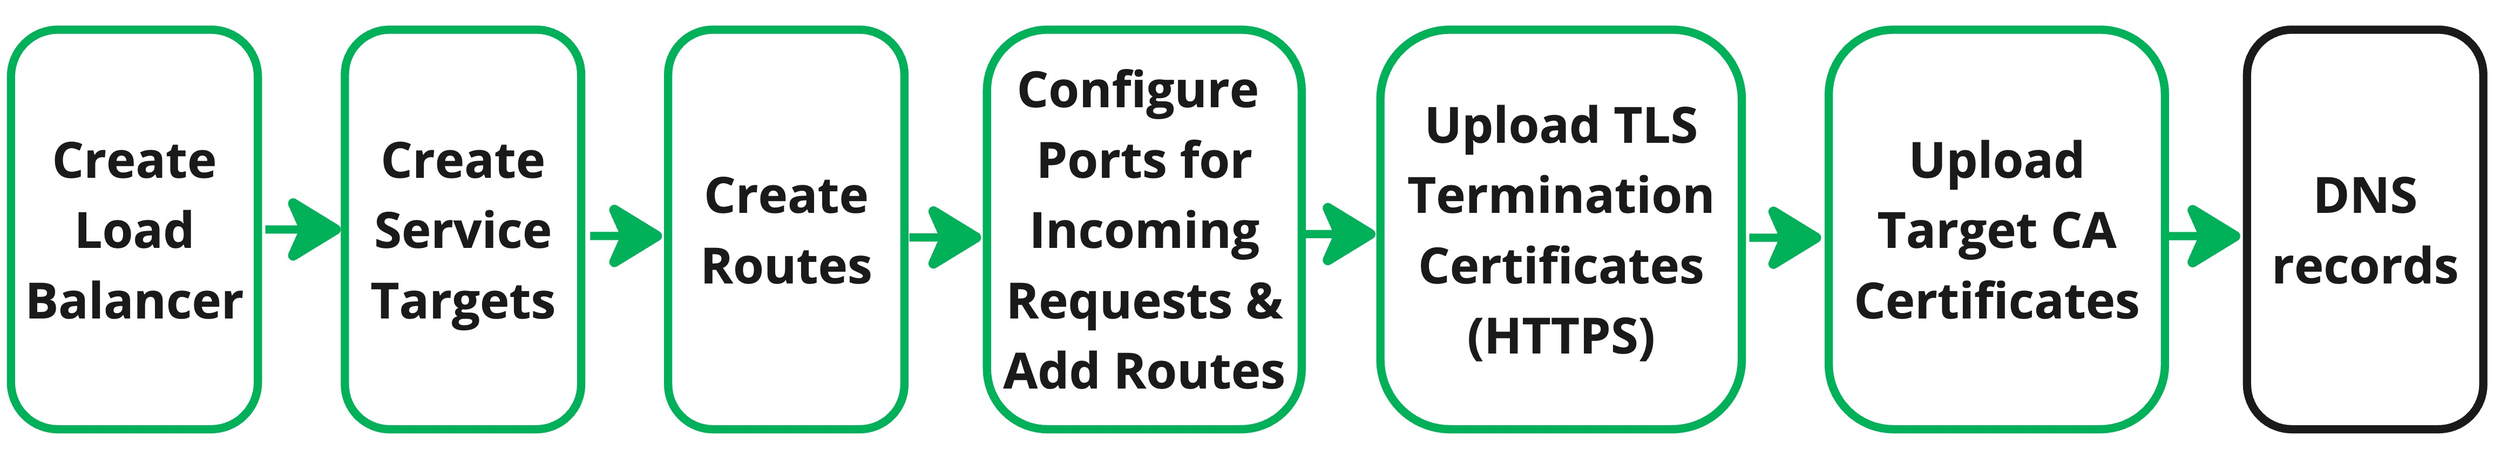
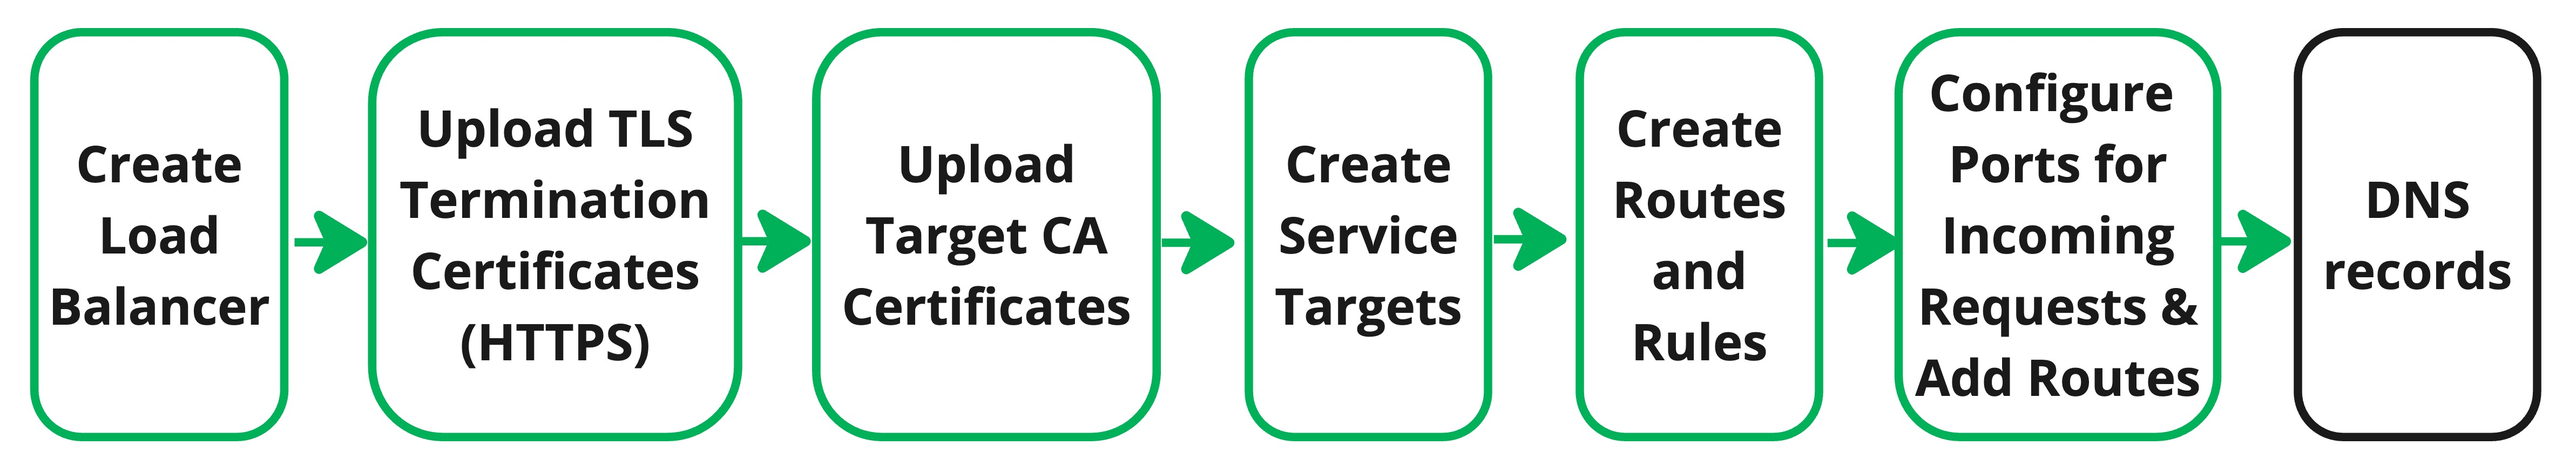
Get Started updates

Changed region(s): [[0.0, 0.031, 0.9991, 0.9928]]

diff --git a/docs/products/networking/cloud-load-balancer/get-started/index.md b/docs/products/networking/cloud-load-balancer/get-started/index.md
@@ -21,25 +21,17 @@ Nearly every production application can benefit from a load balancing solution l
 
 To start using and benefiting from load balancing, your application should be available on at least two service targets. Each service target should be able to fully serve the needs of your users, including being able to respond to web requests, access all necessary files, and query any databases.
 
-To sign up for an account and to start deploying your service targets from Compute Instances, see [Compute Instances - Get Started](/docs/products/compute/compute-instances/get-started/). If your service targets are not deployed from compute instances, ensure you have the public IP addresses for the service target endpoints.
+To sign up for an account and to start deploying your service targets from Compute Instances, see [Compute Instances - Get Started](/docs/products/compute/compute-instances/get-started/). If your service targets are not deployed from compute instances, you will need the public IP addresses for your service targets.
 
 To redirect web connections over port 443/HTTPS, generate TLS certificates for your domains.
 
 ## Create the Akamai Cloud Load Balancer
 
-Once your application has been deployed on at least two backends, you are ready to create the Akamai Cloud Load Balancer which includes configuring and uploading the following components.
+Once your application has been deployed on at least two service targets, you are ready to create the Akamai Cloud Load Balancer which includes configuring and uploading the following components.
 
 ![This diagram shows the main components that are configured when creating a Cloud Load Balancer.](aclb-2.jpg)
 
-**Create Routes:** Create Routes to define how the load balancer directs incoming requests to service targets. After a route is created, you can add rules to set match conditions and configure session stickiness.
-
 **Configure Entry Point and Add Routes:** Configure the entry point protocol (TCP, HTTPS, or HTTP) and the port load balancer uses to listen on. Add routes for forwarding requests to service target endpoints.
-
-**Upload TLS Termination Certificates:** When the entry point protocol is HTTPS, upload certificates and private keys.
-
-**Upload CA Certificates:** Upload the service target CA certificates.
-
-**DNS Record:** Add the Cloud Load Balancers to the DNS records for the associated service targets.
 
 ### Label the Load Balancer and Select Regions
 1. Log in to the [Cloud Manager](https://cloud.linode.com), select Cloud Load Balancers from the left menu, and click the **Create Load Balancer** button. This displays the *Cloud Load Balancers Create* form.
@@ -62,10 +54,36 @@ Once your application has been deployed on at least two backends, you are ready 
 
     The newly created load balancer is added.
 
+### Upload Service Target CA and TLS Termination Certificates
+
+TLS termination certificates are required for load balancer ports using the HTTPS protocol. TLS termination certificates create an encrypted link between your clients and Cloud Load Balancer and terminate incoming requests on the load balancer. Once the load balancing policy is applied, requests are forwarded to your service targets endpoints over encrypted TLS connections. Responses from your service targets to your clients are also encrypted.
+
+Service target CA certificates are applied to your endpoints. Cloud Load Balancer uses these certificates to verify responses from your service targets to your clients.
+
+1. Click on the [Cloud Load Balancer](https://cloud.linode.com/loadbalancers/) that you are setting up. The Cloud Load Balancer **Summary** tab is displayed.
+
+1. Select the **Certificates** tab. Then select the **TLS Certificates** or **Service Target Certificates** tab.
+
+1. Refer to the following table for information on uploading certificates.
+
+| **Field**   | **Description** |
+| :----------------| ----------------|
+| **TLS Certificates**                           ||
+|Label          |  Certificate name.|
+|TLS Certificate| Paste the PEM-formatted contents of your TLS certificate. If you have linked multiple segments of a chained certificate, be sure to copy all of its contents into the text field, appearing one after another. The certificate must be signed using the RSA algorithm, which is the default in most cases.|
+Private Key|Paste the PEM-formatted contents of your private key. Your private key must not have a passphrase.|
+|**Service Target Certificates**||
+|Label          |  Certificate name.|
+|Server Certificate| Paste the PEM-formatted contents of your TLS certificate. If you have linked multiple segments of a chained certificate, be sure to copy all of its contents into the text field, appearing one after another. The certificate must be signed using the RSA algorithm, which is the default in most cases.||
+
+4. After entering each certificate, click **Upload Certificate** . 
+
+    An ID is assigned to each certificate you add.
+
 ### Create Service Targets
 A service target is a cluster of endpoints that the load balancer directs incoming requests to. You can add different service targets and endpoints for different types of requests.
 
-1. Click the **Service Targets** tab.
+1. Select the **Service Targets** tab.
 
 1. Click the **Create Service Target** button.
 
@@ -74,123 +92,133 @@ A service target is a cluster of endpoints that the load balancer directs incomi
 | **Field**   | **Description** |
 | :----------------| ----------------|
 | **Add A Service Target**                            ||
-|- Service Target Label          | Service Target name. |
-|- Service Target Protocol | TCP, HTTP or HTTPs. The protocol this service target is configured to serve.||
-|**Algorithm**                     | Select a load balancing policy that decides how new connections are allocated across your service targets. <li> **Round Robin:** Service targets are selected one after another in a repeating order. If unequal weights are assigned, service targets with a greater weight appear more frequently in the round robin rotation. </li><li> **Least Request:** The load balancer selects the service target with the fewest number of active requests. If unequal weights are assigned, weighted round robin rotation is applied.</li><li> **Ring Hash:** Each service target is mapped into a circle (ring) by hashing its address. Each request is then routed clockwise around the ring to the nearest service target.</li><li> **Random:** The load balancer selects a random available service target.</li><li> **Maglev:** The Maglev load balancer implements consistent hashing to upstream hosts. </li>    |
-| **Endpoints** | A service target can not have endpoints that are exact duplicates. The port, IP or compute instance must differ. Capacity and health status are taken into consideration in the endpoint selection process.|
-|- Linode or Public IP Address          | Select the Compute Instance (Linode). For non-Linode endpoints, enter the public IPv4 or IPv6 address. Do not use the localhost (127.0.0.0/8) or any IP address used internally by this load balancer for the endpoint IP address.|
-|- Port| Enter the service target port that the load balancer directs incoming requests to. This is the port that the application is listening on.|
-|- Host Header (optional)   | The host header for HTTP/S requests to the endpoint. The host header is not used to look up the IP address in the DNS.|
-|- Rate Capacity (Requests per second)|The maximum number of requests/second that can be directed to this endpoint. If the actual number of requests/second exceeds the configured capacity value, requests are distributed to the other endpoints. The total requests per second allowed on each Load Balancer is defined in [Pricing](/docs/products/networking/cloud-load-balancer/#pricing). |
-
-#### Service Target CA Certificate
-
-When the HTTPS protocol is selected, you need to install TLS certificates on your Cloud Load Balancer. Cloud Load Balancer uses these certificates to verify responses from your service targets to your clients. You will be directed to upload service target endpoint CA certificates after the load balancer is created.
-1. If you have uploaded CA certificates already, you can select the certificates you want to use.
-
-#### Health Checks
-Health checks are configured at the service target level and apply to all of the service targets endpoints. Health checks query the service targets by performing TCP connections or by making HTTP requests. For TCP, a service target is considered healthy and able to accept incoming requests when there is a successful TCP handshake with the service target. When HTTP/S is used to validate health status, the service target is considered healthy when requests to its path or host return a 2xx or 3xx status code response.
-
-| **Field**   | **Description** |
-| ----------------| ----------------|
-|Use Health Checks| When enabled, health checks query the service targets by performing TCP connections or by making HTTP/S requests. Default is enabled.|
-|Protocol| HTTP/S or TCP.  You can select TCP health checks even when the load balancers entrypoint protocol is HTTP or HTTPS. When set to TCP, path and host are not applicable.|
+|  Service Target Label          | Service Target name. |
+|Service Target Protocol | TCP, HTTP or HTTPs. The protocol this service target is configured to serve.||
+|**Algorithm**                   | Select a load balancing policy that decides how new connections are allocated across your service targets. Cloud Load Balancer also has a built in geo-proximity feature for selecting the optimum endpoint. <li> **Round Robin:** Service targets are selected one after another in a repeating order. If unequal weights are assigned, service targets with a greater weight appear more frequently in the round robin rotation. </li><li> **Least Request:** The load balancer selects the service target with the fewest number of active requests. If unequal weights are assigned, weighted round robin rotation is applied.</li><li> **Ring Hash:** Each service target is mapped into a circle (ring) by hashing its address. Each request is then routed clockwise around the ring to the nearest service target.</li><li> **Random:** The load balancer selects a random available service target.</li><li> **Maglev:** The Maglev load balancer implements consistent hashing to upstream hosts. </li>    |
+| **Endpoints** | The port, IP or compute instance must differ. Capacity and health status are taken into consideration in the endpoint selection process. Endpoints for a service target must be unique.|
+|Linode or Public IP Address          | Select the Compute Instance (Linode). For non-Linode endpoints, enter the public IPv4 or IPv6 address. Do not use the localhost (127.0.0.0/8) or any IP address used internally by this load balancer for the endpoint IP address.|
+|Port| Enter the service target port that the load balancer directs incoming requests to. This is the port that the application is listening on.|
+|Host Header (optional)   | The host header for HTTP/S requests to the endpoint. The host header is not used to look up the IP address in the DNS.|
+|Rate Capacity (Requests per second)|The maximum number of requests/second that can be directed to this endpoint. If the actual number of requests/second exceeds the configured capacity value, requests are distributed to the other endpoints. The total requests per second allowed on each Load Balancer is defined in [Pricing](/docs/products/networking/cloud-load-balancer/#pricing). |
+|**Service Target CA Certificate**|The certificate installed on your endpoints that is used by the load balancer to accept responses from this Service Target.|
+|Certificate (required for HTTPS applications)| Select the CA certificate to use for this service target. See [Service Target CA Certificates](/docs/products/networking/cloud-load-balancer/get-started/#upload-service-target-ca-and-tls-termination-certificates) for information on uploading certificates.|
+|**Health Checks**|Health checks are configured at the service target level and apply to all of the endpoints. For TCP, a service target is considered healthy (Up) and able to accept incoming requests when there is a successful TCP handshake with the service target. When HTTP/S is used to validate health status, the service target is considered healthy when requests to its path or host return a 2xx or 3xx status code response.|
+|Protocol| HTTP or TCP.  You can select TCP health checks even when the load balancers entry point protocol is HTTP or HTTPS.
 Interval (seconds) | The number of seconds between health checks for this service target. Minimum value is 1. |
+|Timeout| How long to wait (in seconds) before canceling a health check because a connection could not be established with the service target. Minimum value is 1|
 |Healthy Thresholds | The number of consecutive health checks that must be successful before marking a service target as healthy. Minimum value is 1.|
 |Unhealthy Threshold| The number of consecutive health checks that must fail before marking a service target as unhealthy. Minimum value is 1. |
-|Timeout| How long to wait (in seconds) before canceling a health check because a connection could not be established with the service target. Minimum value is 1|
-|Health Check Path (optional)|When *Protocol* is set to HTTP/S, enter the request url path for the health check. *Health Check Path* is not applicable when the health check *Protocol* is set to TCP.|
-|Health Check Host (optional)| When *Protocol* is set to HTTP/S, enter the request host for the health check. *Health Check Host* is not applicable when the health check Protocol is set to TCP.|
+|Health Check Path (optional)|When **Protocol** is set to `HTTP`, enter the request url path for the health check. **Health Check Path** is not applicable when the health check **Protocol** is set to `TCP`.|
+|Health Check Host Header (optional)| When **Protocol** is set to `HTTP`, enter the request host header for the health check. **Health Check Host Header** is not applicable when the health check protocol is set to `TCP`.||
 
-4. Click the **Create and Add Service Target** button. The new service target is added and listed in the *Service Targets* table.
+4. Click the **Create and Add Service Target** button.
+
+    The new service target is added and listed in the *Service Targets* table.
 
 1. Add another service target, or if you have  finished adding your service targets, continue with the next steps to add routes.
 
-### Configuration Routes - Add Routes and Rules
-Routes have a unique label and rules. Routes define how the load balancer directs incoming requests to service targets. After a route is created, you add rules to set match conditions that are used for target selection.
+### Create Routes and Rules
+Routes define how the load balancer directs incoming requests to service targets. After a route is created, you add rules to set match conditions that are used for target selection.
 
-TCP rules include the percentage of incoming requests that should be directed to each target.
+You can reuse routes accross multiple load balancer ports.
 
-For HTTP and HTTPS load balancers, in addition to setting the percentage of incoming requests to a target, other match conditions such as `Path` can be added to the route rules.
+1. Select the **Routes** tab.
 
-You can create new routes or use existing routes.
+1. Click the **Create Route** button.
 
-1. Click the **Next: Routes** button or the **Routes** stepper located on the left.
+1. Enter a **Route Label** for this route that uniquely identifies it from other routes.
 
-1. Click the **Add Route** button.
+1. Select the **Protocol**.
 
-    - To use an existing route, select **Add Existing Route**, select the route from the **Route** list and click **Add Route**.
+    {{< note >}}
+    The route protocol must match the health check protocol that you selected while creating the service target.
+    {{< /note >}}
 
-    - To create a new route, select **Create New Route**. Enter a **Route Label** for this route that uniquely identifies it from other routes.
+1. Click **Create Route**.
 
-1. Click **Create Route**. The route is added and listed in the *Routes* table.
+    The route is assigned an **ID** and listed in the *Routes* table.
 
-1. Create or select additional routes. Once all Routes are added, the next steps involve adding rules.
+1. Once at least one route is added, add rules to the route.
 
-Select the specific steps to add rules for TCP or HTTP/S load balancers;
-- [Rules - TCP Load Balancers](/docs/products/networking/cloud-load-balancer/get-started/#routes---tcp-load-balancers)
-- [Rules - HTTP and HTTPs Load Balancers](/docs/products/networking/cloud-load-balancer/get-started/#routes---http-and-https-load-balancers)
+    Select the specific steps for adding rules to TCP or HTTP routes;
+    - [Rules - TCP Load Balancers](/docs/products/networking/cloud-load-balancer/get-started/#routes---tcp-load-balancers)
+    - [Rules - HTTP and HTTPs Load Balancers](/docs/products/networking/cloud-load-balancer/get-started/#routes---http-and-https-load-balancers)
 
 #### Rules - TCP Load Balancers
-For TCP load balancers, route rules consist of service targets and the percentage of incoming requests that should be directed to each target. Add as many service targets as you require but the percentages for the rule must total 100.
+For TCP load balancers, rules include allocating the percentage of request that should be directed to specific service targets. You can also enable session stickiness.
 
-1. In the *Route* table, click **Add Rule** for the route that you want to add rules to. The *Add Rule* drawer opens.
+1. In the *Routes* table, click **Add Rule**.
 
-1. Select service targets from the **Service Target** pull down lists. You can also add more service targets by clicking on **Add Service Target**.
+    The *Add Rule* drawer opens.
 
-1. Assign a percentage of incoming requests that you want routed to each service target in the **Percent** field. All percentages must total 100.
+1. Select a service target from the **Service Target** pull down lists and assign the **Percent** of requests that you want routed to that target.
 
-1. Click **Add Rule**, to add the rule to the route.
+1. Continue to add more service targets and percents by clicking **Add Service Target**.
 
-1. Create or select additional rules. Once all rules are added, go to [Update the DNS](/docs/products/networking/cloud-load-balancer/get-started/#update-the-dns).
+    All percentages must total 100.
+
+1. When you have added all of the service targets for this route rule, click **Add Rule**.
+
+1. Create additional rules if rquired. Once all rules are added, go to [Configurations - Entry Point Protocol and Port](/docs/products/networking/cloud-load-balancer/get-started/#configurations---entry-point-protocol-and-port).
 
 #### Rules - HTTP and HTTPs Load Balancers
- For HTTP and HTTPS load balancers, in addition to setting the percentage of incoming requests to each target, other match conditions such as host, path prefixes, query strings, request headers and request methods can be added to the route rules.  HTTP and HTTPS load balancers also support session stickiness.
+ For HTTP and HTTPS load balancers, in addition to setting the percentage of incoming requests to each target, other match conditions such as `Hostname`, `Path Prefix`, `Query String`, `HTTP Header`, `HTTP Method` and `Path Regex` can be added to the route rules.  HTTP and HTTPS load balancers also support session stickiness.
 
-1. In the *Route* table, click **Add Rule** for the route that you want to add rules to. The *Add Rule* drawer opens.
+1. In the *Routes* table, click **Add Rule**.
 
+    The *Add Rule* drawer opens.
 
-1. If this match rule applies to a specific target, enter the **Hostname** of the target or select the target. If a hostname or target is not specified, the rule applies to all targets. Wildcards (*) are not supported for Beta.
+1. If this match rule applies to a specific target, enter the **Hostname** of the target. If a hostname is not specified, the rule applies to all targets.
 
-1. Add match conditions for each route. A match condition consists of a **Match Type**, and a **Match Value** pattern to match. Rules are evaluated in order, with the first match winning. Each rule can specify only one field/pattern pair (AND/OR logic is not supported). Match values are case sensitive and do not support wildcards. Supported **Match Types** and examples are available in the following table.
+1. Add match conditions for each route. A match condition consists of a **Match Type**, and a **Match Value** pattern to match. Rules are evaluated in order, with the first match winning. Each rule can specify only one field/pattern pair (AND/OR logic is not supported). Match values are case sensitive and only Path Regex supports wildcards.
+
+    Supported **Match Types** and examples are available in the following table.
 
 | Match Type     | Description |Match Value Examples       |
 |----------------|-------------|--------------|
 |**HTTP Header**       | Exact match based on both the name of a request header and its value. If no value is entered, any request containing the header name produces a match.|X-route-header=images|
-|**Host**       | Exact Host name to match with.|example.com|
-|**HTTP Method**       |Match based the type of request method.|GET, DELETE, POST, PUT |
-|**Path**  | A URL path prefix. The format of the path entry is as follows: /pathprefix1/pathprefix2. The initial slash is required, the trailing slash is not.| /images |
+|**HTTP Method**       |Match based the type of request method.|GET, HEAD, DELETE, POST, PUT |
+|**Path Prefix**  | A URL path prefix. The format of the path entry is as follows: /pathprefix1/pathprefix2. The initial slash is required, the trailing slash is not.| /images |
+|**Path Regex**           | Match is on a path using regular expression RE2 syntax. The initial slash is required.| For any jpg file in the /path/ directory, match value would be /path/.*[.]jpg.|
 |**Query String**        | Exact match based on both the name of the query and the single URL query value to match on. If there is no value, the match is to any request that contains the parameter.|?svc=images|
 
-4. Select service targets from the **Service Target** pull down lists. You can also add more service targets by clicking on **Add Service Target**.
+4. Select a service target from the **Service Target** pull down lists and assign the **Percent** of requests that you want routed to that target.
 
-1. Assign a percentage of incoming requests that you want routed to each service target in the **Percent** field. All percentages must total 100.
+1. Continue to add more service targets and percents by clicking **Add Service Target**.
+
+    All percentages must total 100.
 
 {{< note >}}
-Add a service target to use if no rule matches. Without a default target, non-matching requests are rejected.
-{{</note >}}
+Add a service target to use if no rules match. Without a default target, non-matching requests are rejected.
+{{< /note >}}
 
-### Configure Session Stickiness
+#### Configure Session Stickiness
 Session stickiness controls how subsequent requests from the same user are routed. When enabled, subsequent requests by the same user to the same load balancer are sent to the same service target for the duration of the cookie, and as long as the target remains healthy. If the target is unhealthy, a different target is selected. When session stickiness is disabled, no session information is saved, and requests are routed in accordance with the algorithm and rules. Cloud Load Balancer supports session stickiness using load balancer generated cookies, or cookies from the origin.
 
 If you are not using session stickiness, click **Add Rule**, to add this rule to the route.
-Create or select additional rules. Once all rules are added, go to [Update the DNS](/docs/products/networking/cloud-load-balancer/get-started/#update-the-dns).
+Create or select additional rules. Once all rules are added, go to [Configurations - Entry Point Protocol and Port](/docs/products/networking/cloud-load-balancer/get-started/#configurations---entry-point-protocol-and-port).
 
 If you are using ssession stickiness, complete the following steps.
 
-1. Enable **Use Session Stickiness** if you want to route subsequent requests from the same client to the same service target whenever possible.
+6. Enable **Use Session Stickiness** if you want to route subsequent requests from the same client to the same service target whenever possible.
 
     {{< note >}}
-    The client must have cookies enabled. If the client has disabled cookies or deletes cookies, session stickiness is not preserved and each new request is routed in accordance with the chosen algorithm.
+    The client must have cookies enabled. If the client has disabled cookies or deletes cookies, session stickiness is not preserved and each new request is routed in accordance with the choosen algorithm.
     {{< /note >}}
+
 1. Select the **Cookie Type**, `Load Balancer Generated` or `Origin`.
     - If the **Cookie Type** is `Origin`, enter the `Cookie Key`. The `Cookie Key` is the cookie name used to obtain the cookie value from the downstream HTTP application.
     - If the **Cookie Type** is `Load Balancer Generated`, enter the **Stickiness TTL**. If the TTL is set to zero, the generated cookie is a session cookie only.
-1. Click **Add Rule**, to add this rule to the route.
-Create or select additional rules. Once all rules are added, continue with the next section.
 
-### Configuration Details - Entry Point Protocol and Port
-The entry point defines the port the load balancer listens on and the protocol used for routing incoming traffic to the service targets.
+1. Click **Add Rule**. Create additional rules if required. Once all rules are added, continue with the next section.
+
+### Configurations - Entry Point Protocol and Port
+Configurations define the port the load balancer listens on and the protocol used for routing requests to the service targets.
+
+A Cloud Load Balancer can have muliple configurations. Each configuration allows the load balancer to accept traffic on a new port. For example, if you wanted to accept standard HTTP traffic, you could create a configuration listening on port 80.
+
+Configurations use routes to direct requests to service targets.
+The route protocol and the configuration protocol must match, or the operation will be rejected. If the protocol is HTTPs, a TLS Termination certificate is required.
 
 1. In the **Configuration** and **Details** area, select the **Protocol**. The protocol can be set to either TCP, HTTP, or HTTPS. See [Guides - Available Protocols](/docs/products/networking/cloud-load-balancer/guides/protocols/).
 
@@ -203,14 +231,11 @@ If the protocol used by this Load Balancer is TCP or HTTP, TLS termination certi
 {{< /note >}}
 
 4. If TLS certificates for this load balancer have been uploaded already, click **Apply Certificates**. In the *Apply Certificates* drawer, enter the host header for HTTPS that the load balancer responds to and select the certificate. Click **Save** to apply the TLS termination certificate.
-## Upload TLS Certificates
 
 ## Update the DNS
 
 After deploying your Load Balancer and putting your application behind Load Balancer, the application can now be accessed using the load balancer's public IPv4 and IPv6 addresses. Since most public-facing applications utilize domain names, you need to update any associated DNS records. The *A* record should use the load balancer's IPv4 address and the *AAAA* record (if you're using one) should use the load balancer's IPv6 address. See [Manage Load Balancers](/docs/products/networking/cloud-load-balancer/guides/manage/#review-and-edit-a-nodebalancer) to view your load balancer's IP addresses. For help changing the DNS records, consult your DNS provider's documentation. If you are using Linode's DNS Manager, see [Edit DNS Records](/docs/products/networking/dns-manager/guides/manage-dns-records/). Keep in mind that DNS changes can take up to 24 hours to fully propagate, though that typically happens much faster.
 
-## Review and Create the Cloud Load Balancer
+## Review the Cloud Load Balancer
 
-1. After you have configured the load balancers details, Service targets, Routes and TLS Certificates (for HTTPS only), click **Review Load Balancer**. The load balancer summary is displayed.
-
-1. After reviewing the Load Balancer, you can **Edit** any of the components or click **Create Load Balancer**.
+1. After reviewing the Load Balancer, you can **Edit** any of the components by clicking on the different tabs.
